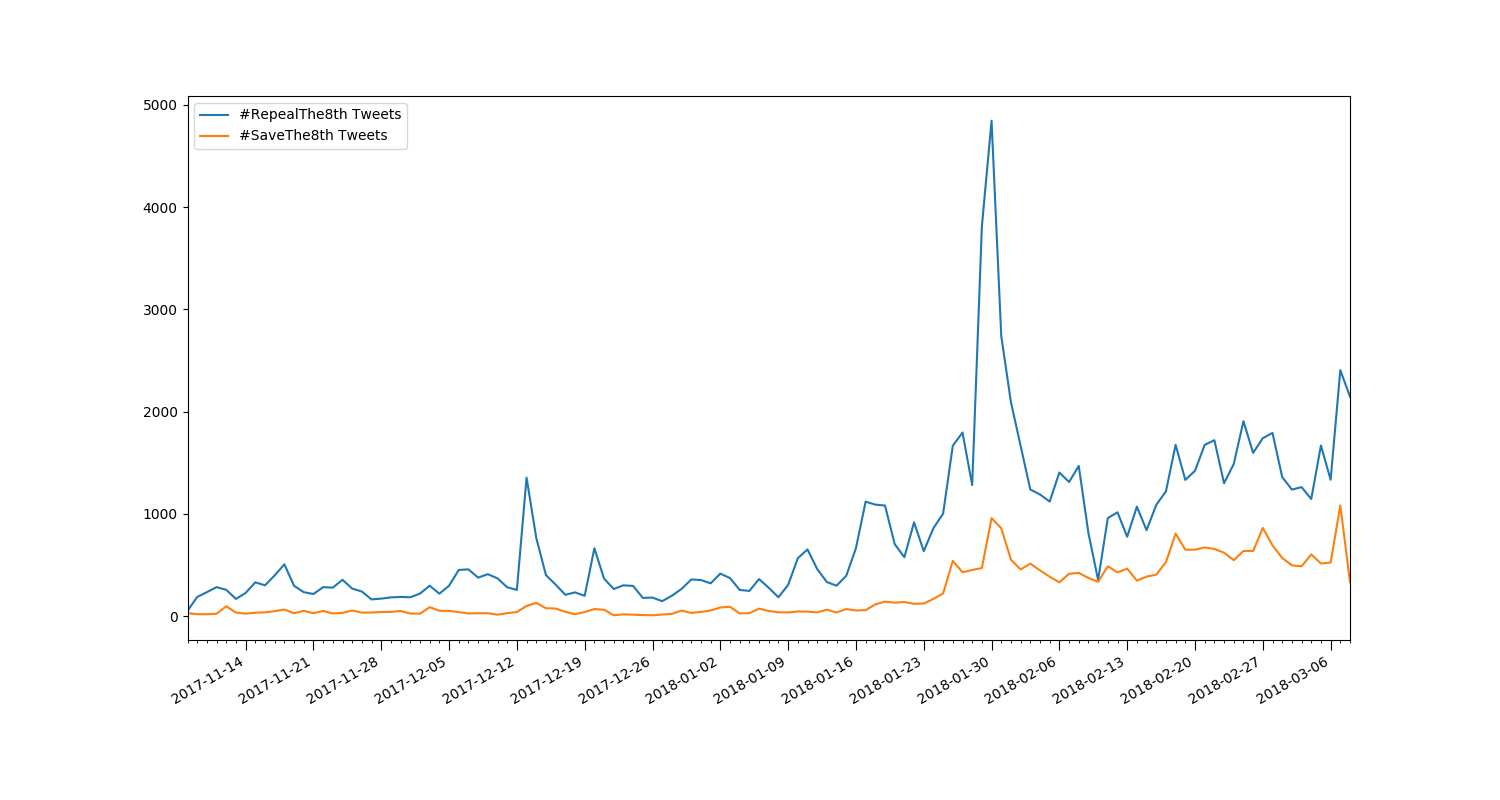
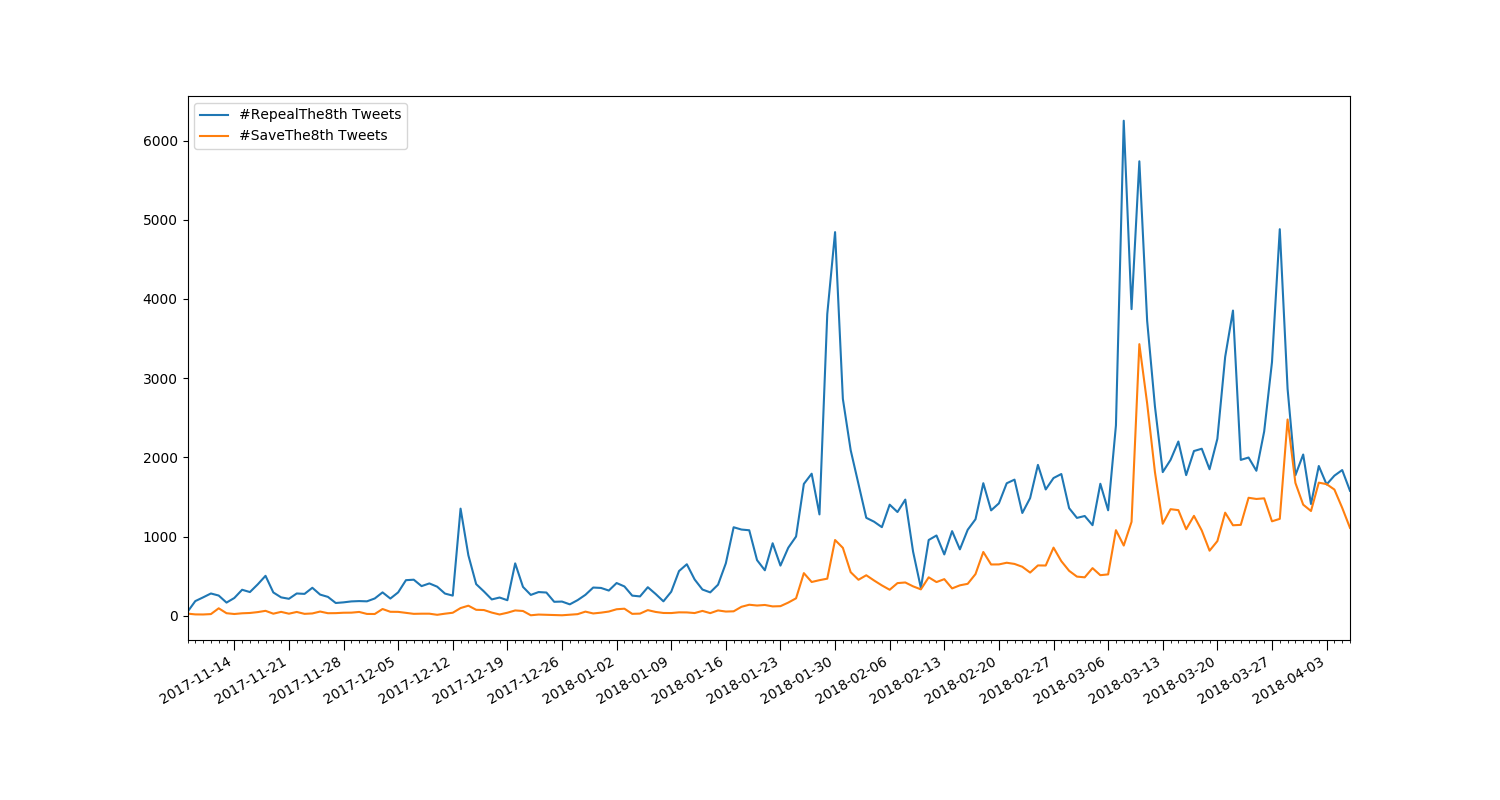
Adds results from recently collected data

diff --git a/docs/report/results.md b/docs/report/results.md
@@ -3,7 +3,7 @@
 The primary goal of the project has been fulfilled. We have created a microservice based, machine learning pipeline, that can collect, classify and analyse Twitter data on any divisive domain and display these results in a web-based dashboard in real time. We have used the run up to the referendum on repealing the 8th amendment in Ireland as an initial, real-world test case to validate the system, and displayed the results in real-time on [hateful8th.com](http://hateful8th.com/).
 
 ## Raw Data
-The pipeline has been running almost constantly since the 8th of November, 2017. Since then, it has collected over 120,000 Tweets regarding the 8th amendment debate. This makes it an extremely valuable corpus detailing the run up to one of the most important and controversial referenda in recent Irish history. It is my intention to keep the pipeline running until after the referendum is held, to increase the coverage of the dataset. Although this project will be finished by then, it would seem like a waste of a major opportunity to not keep the pipeline running until the end.
+The pipeline has been running almost constantly since the 8th of November, 2017. Since then, it has collected over 250,000 Tweets regarding the 8th amendment debate. This makes it an extremely valuable corpus detailing the run up to one of the most important and controversial referenda in recent Irish history. It is my intention to keep the pipeline running until after the referendum is held, to increase the coverage of the dataset. Although this project will be finished by then, it would seem like a waste of a major opportunity to not keep the pipeline running until the end.
 
 ![daily_tweet_count](images/daily_tweet_count.png)
 #### Figure 10.1: The number of Tweets collected daily since the pipeline began.
@@ -19,17 +19,21 @@ This graph is quite a simple visualisation of daily Tweet count. It does highlig
 * 2018-02-10: An outage in the pipeline results in a number of hours of Tweets being missed.
 * 2018-02-18: Regina Doherty TD says unless something is done, the referendum will not pass [27].
 * 2018-02-21: Dáil debate on 8th referendum concludes [28].
-* 2018-03-07: Supreme court finds the unborn does not have constitutional rights outside right to life [29].
+* 2018-03-08: International Women's Day [29].
+* 2018-03-10: 'Rally for life' held, where tens of thousands marched calling for the preservation of the Eighth Amendment [30].
+* 2018-03-21: Dáil passes bill to allow the holding of a referendum on the Eighth Amendment [31].
+* 2018-03-22: 'Together for Yes' campaign launched to advocate for a repeal of the Eighth Amendment [32].
+* 2018-03-28: The date of the referendum is confirmed by the government [33].
 
 ![daily_tweet_count_by_viewpoint](images/daily_tweet_count_by_viewpoint.png)
 #### Figure 10.2: The number of Tweets collected daily since the pipeline began, split by viewpoint.
 
-Here we see the daily Tweet count, split into the distinct viewpoints. The most obvious piece of information from this graph is the difference in volume of Tweets from either side. #RepealThe8th is a much more common term than #SaveThe8th. This would be expected however as the main demographics on Twitter are more likely to be pro-choice [X+1] [X+2]. It is hard to make comparisons between the 2 activity levels, due to the large difference between them. To counteract this, I graphed the same data, but normalised it by the average Tweet count for that particular viewpoint.
+Here we see the daily Tweet count, split into the distinct viewpoints. The most obvious piece of information from this graph is the difference in volume of Tweets from either side. #RepealThe8th is a much more common term than #SaveThe8th. This would be expected however as the main demographics on Twitter are more likely to be pro-choice [34] [35]. It is hard to make comparisons between the 2 activity levels, due to the large difference between them. To counteract this, I graphed the same data, but normalised it by the average Tweet count for that particular viewpoint.
 
 ![relative_daily_tweet_count_by_viewpoint](images/relative_daily_tweet_count_by_viewpoint.png)
 #### Figure 10.3: The number of Tweets per day for each viewpoint, relative to the average number of daily Tweets for that viewpoint.
 
-This gives us a far clearer comparison between the two viewpoints' activity levels. We can see there are certain news stories that are far more important for one side than the other. E.g. The Taoiseach raising concerns that allowing abortion up to 12 weeks may be a step too far on January 10th led to a large jump in Repeal Tweets but almost no change in Save activity levels. The supreme court finding the unborn does not have constitutional rights outside right to life was a much more important issue to the Save side than the Repeal side however. Another clear feature of this graph is the increase in Twitter activity from both sides over time. The Save activity noticeably increased after the first poll showed Repeal with an early lead, on January 26th. As the referendum date gets nearer, we can expect to see further growth in activity levels from both sides.
+This gives us a far clearer comparison between the two viewpoints' activity levels. We can see there are certain news stories that are far more important for one side than the other. E.g. International women's day on March 8th was a much bigger event for the Repeal side than for the Save side. The 'Rally for Life' march 2 days later generated a much larger increase in Save activity than Repeal activity. It also shows up events that didn't produce a noticeable impact in the simple count graphs. E.g. A large spike in Save activity on March 29th, when the Save the 8th campaign officially launched [36]. There's no unusual spike in activity in the other graphs however as a decrease in Repeal activity masked the impact. Another clear feature of this graph is the increase in Twitter activity from both sides over time. The Save activity noticeably increased after the first poll showed Repeal with an early lead, on January 26th. As the referendum date gets nearer, we can expect to see further growth in activity levels from both sides.
 
 ## Tweet Time Analysis
 What time people tend to Tweet about this debate at is another area to explore. As can be seen from above, large spikes in Twitter activity tend to follow big news breaking. I analysed the timestamps of all the Tweets the pipeline has classified to see if any interesting information could be extracted. Potentially, this sort of data could be used by groups to maximise exposure for Twitter campaigns on the topic.
@@ -53,7 +57,7 @@ Analysing sentiment is the most challenging aspect of the project. Despite the c
 
 This shows the smoothed sentiment calculated so far by the pipeline. It is displayed in the range [-1,1] as we found this to be a more user-friendly option than the usual range of [0,1]. For the remainder of this section, all figures for sentiment will be given for the [-1,1] range to keep consistency with the graph.
 
-It can clearly be seen from this graph that the sentiment values were more extreme nearer the start of the debate, especially on the Save side. This is more likely to do with the lower levels of Twitter activity nearer the start, than any calming of discussion. As seen in the above subsections, there was very little Save Twitter activity in the first few months of measurements. This means noise had a far greater impact as a few extra negative Tweets in a day noticeably brought down the average. From mid-January onwards, all daily values have kept within the [-0.2,0.4] interval. This coincides with the increase in Twitter activity discussed above.
+It can clearly be seen from this graph that the sentiment values were more extreme nearer the start of the debate, especially on the Save side. This is more likely to do with the lower levels of Twitter activity nearer the start, than any calming of discussion. As seen in the above subsections, there was very little Save Twitter activity in the first few months of measurements. This means noise had a far greater impact as a few extra negative Tweets in a day noticeably brought down the average. From mid-January onwards, almost all daily values have kept within the [-0.2,0.4] interval. This coincides with the increase in Twitter activity discussed above.
 
 Unlike the above section on Tweet volumes, it is much harder to link any changes in the graph to specific events in the campaign. The rate of Tweets may increase but the overall sentiment doesn't swing outside of the usual fluctuation zone. The overall sentiment levels are too changeable to say with any confidence that a particular fluctuation was caused by a specific event. As the referendum draws nearer, it's possible that reactions to certain news stories would be more uniform, resulting in clearer changes in sentiment. An example of this would be on results day, where we would expect very positive Tweets from the winning side and potentially very negative Tweets from the other.
 
@@ -65,7 +69,7 @@ Unlike the above section on Tweet volumes, it is much harder to link any changes
 
 Interestingly, a number of patterns are visible in the sentiment data between the 2 sides. For some short periods of time, both sentiment levels tend to change in a synchronised manner (fig. 10.7 above). They rise and fall on the same days, even when there's a large gap in their real values. A possible explanation for this is that sentiment expressed by one side is reacted to in a similar manner by the other side. A polite debate would likely result in positive sentiment from both sides, whereas an angry one would likely result in negative sentiment. Inversely, for other short periods of time, they move in opposite directions (fig. 10.8 above). This is probably closer to what one might expect, as positive news for one side would likely be negative news for the other (e.g. poll results showing one side has a large lead).
 
-The overall average sentiment for Repeal Tweets is 0.1415 and for Save Tweets is 0.2017. Surprisingly, both values are positive meaning the debate might not be as negative as some feared it would be. It also shows Save supporters may be slightly more positive than Repeal supporters, although there is very little between the two sides.
+The overall average sentiment for Repeal Tweets is 0.1002 and for Save Tweets is 0.1968. Surprisingly, both values are positive meaning the debate might not be as negative as some feared it would be. It also shows Save supporters may be slightly more positive than Repeal supporters, although there is very little between the two sides.
 
 ## Word Clouds
 
@@ -94,7 +98,7 @@ Save seem to be using more emotive language focusing more on the unborn. Althoug
 ![wordcloud snow day](images/wordcloud-snowday.png)
 #### Figure 10.10: The Repeal word cloud from March 2nd, when Ireland was suffering a massive snow storm.
 
-Another strategy, used particularly by the Repeal side, that was highlighted by the word clouds was the linking of the debate to other news stories. The repeal word cloud, from when Ireland was suffering a large snowstorm on the 2nd of March, clearly shows this concept [X+3]. Many of the trending terms are to do with the weather, including:
+Another strategy, used particularly by the Repeal side, that was highlighted by the word clouds was the linking of the debate to other news stories. The repeal word cloud, from when Ireland was suffering a large snowstorm on the 2nd of March, clearly shows this concept [37]. Many of the trending terms are to do with the weather, including:
 * #snow
 * #snowday
 * #SneachtaForChoice (sneachta being the Irish word for snow)
@@ -106,7 +110,7 @@ Initially looking at these, there's no clear relevance to the debate. After cros
 ![wordcloud march](images/wordcloud-march.png)
 #### Figure 10.11: The Save word cloud from February 26th, when they were promoting a rally.
 
-Dates and times for events are commonly very popular terms in the word clouds, since they are likely only related to one side. An example is this Save cloud, where we can see the key details of the "All-Ireland Rally for Life". This was taking place on Saturday the 10th of March, from 2pm in Parnell square, and was organised by Youth Defence [X+4].
+Dates and times for events are commonly very popular terms in the word clouds, since they are likely only related to one side. An example is this Save cloud, where we can see the key details of the "All-Ireland Rally for Life". This was taking place on Saturday the 10th of March, from 2pm in Parnell square, and was organised by Youth Defence [38].
 
 ![Twitter Lookup](images/twitter-search.png)
 #### Figure 10.12: Twitter search results that are automatically opened when clicking on a term in a word cloud. In this case the results shown correspond to clicking on the '#BeastFromTheEast' term in the Repeal word cloud.

diff --git a/docs/report/references.md b/docs/report/references.md
@@ -70,14 +70,22 @@
 
 28. Harris says unrestricted abortion 'already happening' in Ireland, RTÉ. Retrieved from https://www.rte.ie/news/politics/2018/0221/942539-eighth-amendment-dail/ on March 31st, 2018.
 
-29. Unborn does not have inherent constitutional rights outside right to life, RTÉ. Retrieved from https://www.rte.ie/news/2018/0307/945560-supreme-court-rights-of-unborn/ on March 31st, 2018.
+29. International Women's Day, March 8th. Retrieved from https://www.internationalwomensday.com/ on April 6th, 2018.
 
-... (more will be added here when extra results are available)
+30. ‘Rally for Life’ told 10 weeks left to save Eighth Amendment,The Irish Times. Retrieved from https://www.irishtimes.com/news/ireland/irish-news/rally-for-life-told-10-weeks-left-to-save-eighth-amendment-1.3422543 on April 6th, 2018.
 
-X+1. Twitter Demographics, Sprout Social. Retrieved from https://sproutsocial.com/insights/new-social-media-demographics/#twitter on March 31st, 2018.
+31. Dáil passes bill over referendum on Eighth Amendment, RTÉ. Retrieved from https://www.rte.ie/news/politics/2018/0321/949062-politics/ on April 6th, 2018.
 
-X+2. Poll shows public support for abortion is cautious and conditional, The Irish Times. Retrieved from https://www.irishtimes.com/news/social-affairs/poll-shows-public-support-for-abortion-is-cautious-and-conditional-1.2995696 on March 31st, 2018.
+32. Together for Yes referendum campaign launched, RTÉ. Retrieved from https://www.rte.ie/news/ireland/2018/0322/949284-eighth-amendment/ on April 6th, 2018.
 
-X+3. Beast from the East: Status Red snow alert in place until Friday, The Irish Times. Retrieved from https://www.irishtimes.com/news/environment/beast-from-the-east-status-red-snow-alert-in-place-until-friday-1.3408511 on March 31st, 2018.
+33. Govt confirms referendum on Eighth Amendment will be held 25 May, RTÉ. Retrieved from https://www.rte.ie/news/2018/0328/950558-seanad_referendum_bill/ on April 6th, 2018.
 
-X+4. All-Ireland Rally for Life, Cloyne Diocese. Retrieved from http://cloynediocese.ie/event/save-8th-rally-dublin/ on March 31st, 2018.
+34. Twitter Demographics, Sprout Social. Retrieved from https://sproutsocial.com/insights/new-social-media-demographics/#twitter on March 31st, 2018.
+
+35. Poll shows public support for abortion is cautious and conditional, The Irish Times. Retrieved from https://www.irishtimes.com/news/social-affairs/poll-shows-public-support-for-abortion-is-cautious-and-conditional-1.2995696 on March 31st, 2018.
+
+36. Save the 8th campaign launches in Dublin, RTÉ. Retrieved from https://www.rte.ie/news/eighth-amendment/2018/0329/950911-save8th-campaign-launch/ on April 6th, 2018.
+
+37. Beast from the East: Status Red snow alert in place until Friday, The Irish Times. Retrieved from https://www.irishtimes.com/news/environment/beast-from-the-east-status-red-snow-alert-in-place-until-friday-1.3408511 on March 31st, 2018.
+
+38. All-Ireland Rally for Life, Cloyne Diocese. Retrieved from http://cloynediocese.ie/event/save-8th-rally-dublin/ on March 31st, 2018.

diff --git a/docs/report/conclusion.md b/docs/report/conclusion.md
@@ -4,6 +4,6 @@ In this project, we have designed and built a microservices based, machine learn
 
 Using a combination of NLP and machine learning techniques, the system described in this report has achieved at least professional human levels of accuracy at sentiment analysis. It is also far faster and cheaper to run than a team of humans doing the same task.
 
-We have applied this system to over 120,000 Tweets regarding the 8th amendment debate and gained a deep insight into the behaviours of both sides. This has provided us with a unique and valuable dataset covering one of the most important referendums in recent Irish history.
+We have applied this system to over 250,000 Tweets regarding the 8th amendment debate and gained a deep insight into the behaviours of both sides. This has provided us with a unique and valuable dataset covering one of the most important referendums in recent Irish history.
 
 It has also successfully been applied to a number of other domains, demonstrating its flexibility. Potential future applications of this system could include analysing other political topics, civil unrest, sports events, brand image and public relations etc.
